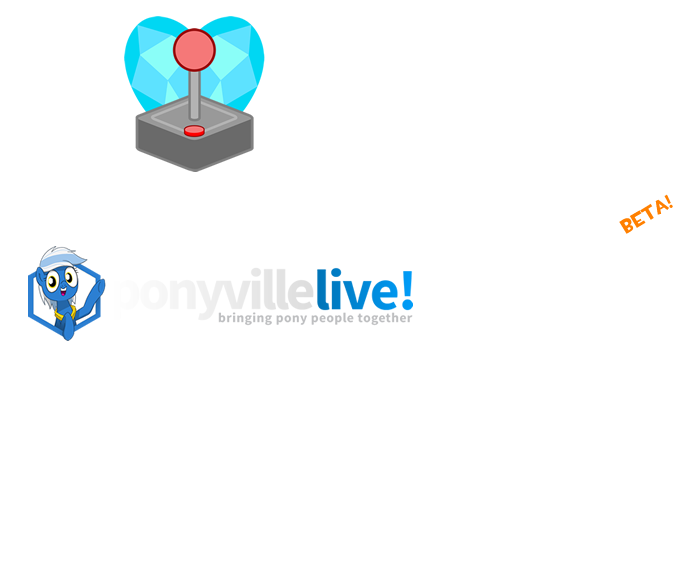
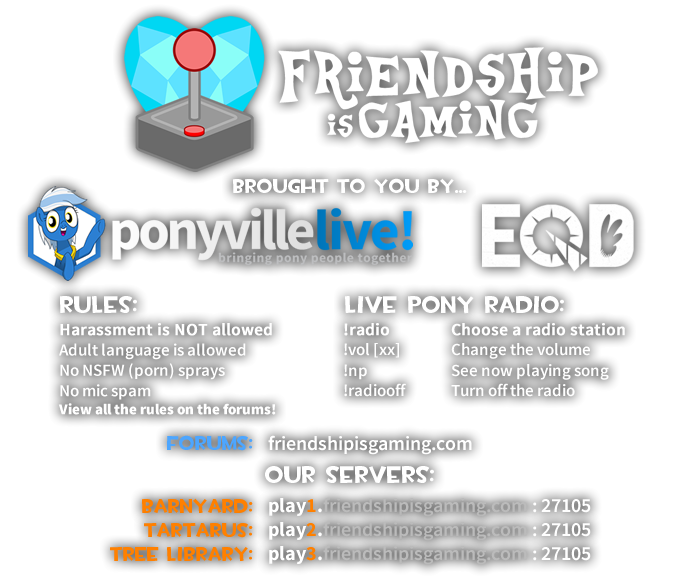
Add new servers and text to MOTD page, remove "Welcome to The Barnyard" text, add drop shadows, update CSS to allow scrolling and smaller position on bigger screens.

diff --git a/motd/motd.html b/motd/motd.html
@@ -8,7 +8,6 @@
 				height: 100%;
 				margin: 0;
 				padding: 0;
-				overflow:hidden;
 			}
 			img#bg {
 				position:fixed;
@@ -25,7 +24,7 @@
 			}
 			#content img {
         width: 100%;
-        max-width: 800px;
+        max-width: 700px;
 			}
 		</style>
 	</head>
